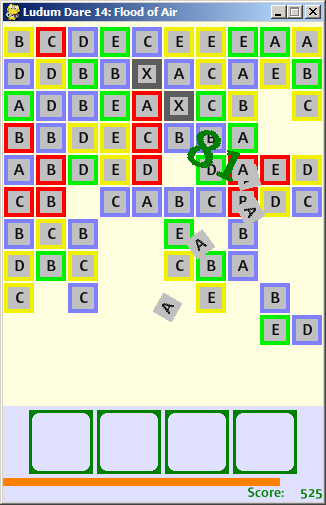
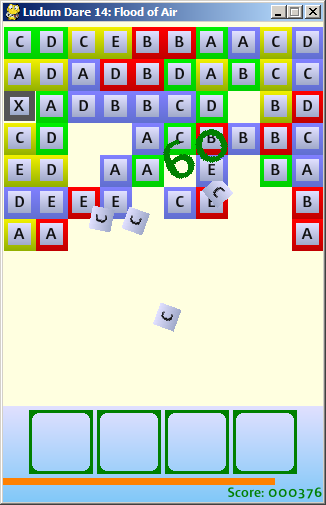
Non-flat tiles. Version and screenshot updated.

diff --git a/src/ld14.py b/src/ld14.py
@@ -22,6 +22,11 @@ RGB_TILE_COLOR = [(0xff, 0x00, 0x00),
                   (0x80, 0x80, 0xff),
                   (0xf0, 0xf0, 0x00),
                   ]
+RGB_TILE_END_COLOR = [(0xcf, 0x00, 0x00),
+                      (0x00, 0xcf, 0x00),
+                      (0x6f, 0x6f, 0xcf),
+                      (0xaf, 0xaf, 0x00),
+                      ]
 
 SHAPE_COUNT = len(TILE_SYMBOL)
 SPECIAL_SHAPE = SHAPE_COUNT - 1
@@ -39,15 +44,19 @@ TILE_ROWS = (SCREEN_SIZE_Y - 80) / TILE_SIZE
 DASHBOARD_START = TILE_ROWS * TILE_SIZE
 CLOCK_COLOR = (255, 128, 0)
 BACKGROUND_COLOR = (0xff, 0xff, 0xe0)
+BACKGROUND_END_COLOR = (0xe8, 0xe8, 0xd8)
 DASHBOARD_COLOR = (0xe0, 0xe0, 0xff)
+DASHBOARD_END_COLOR = (0xc8, 0xc8, 0xf8)
 SCORE_COLOR = (0, 128, 0)
 GAME_OVER_COLOR = (48, 48, 48)
 SPECIAL_TILE_COLOR = (128, 128, 128)
 
 TILE_COLOR = (16, 16, 16)
-TILE_BACKGROUND_COLOR = (0xc0, 0xc0, 0xc0)
+TILE_BACKGROUND_COLOR = DASHBOARD_COLOR
+TILE_BACKGROUND_END_COLOR = (0xa8, 0xa8, 0xc8)
 TILE_BACKGROUND_MARGIN = 5
 SLOT_BACKGROUND_COLOR = DASHBOARD_COLOR
+SLOT_BACKGROUND_END_COLOR = (0xa0, 0xa0, 0xc0)
 SLOT_BACKGROUND_MARGIN = 16
 BANNER_ALPHA = 192
 
@@ -110,7 +119,7 @@ class Tile(pygame.sprite.Sprite):
     if self.rect.left > SCREEN_SIZE_X / 2:
       self.dx = - self.dx
       self.rot_dx = - self.rot_dx
-    self.dy = -0.05
+    self.dy = - 0.05
 
   def update(self):
     if not self.falling:
@@ -173,12 +182,14 @@ class Game(object):
     pygame.mouse.set_visible(True)
   
     self.background = pygame.Surface(self.screen.get_size()).convert()
-    self.background.fill(BACKGROUND_COLOR,
-                         pygame.Rect(0, 0, SCREEN_SIZE_X, DASHBOARD_START))
-    self.background.fill(DASHBOARD_COLOR,
-                         pygame.Rect(0, DASHBOARD_START, SCREEN_SIZE_X,
-                                     SCREEN_SIZE_Y - DASHBOARD_START))
+    self.do_gradient(self.background, pygame.Rect(0, 0, SCREEN_SIZE_X, DASHBOARD_START),
+                     BACKGROUND_COLOR, BACKGROUND_COLOR)
+    self.do_gradient(self.background, pygame.Rect(0, DASHBOARD_START, SCREEN_SIZE_X,
+                                                  SCREEN_SIZE_Y - DASHBOARD_START),
+                                                  DASHBOARD_COLOR, DASHBOARD_END_COLOR)
 
+    self.prerender()
+    
     self.pulse_color_dx = 0
     self.pulse_color = 0.75
     self.special_color_dx = 0
@@ -241,6 +252,24 @@ class Game(object):
     self.screen.blit(self.background, (0, 0))
     pygame.display.flip()
 
+  def do_gradient(self, image, rect, bg_color, bg_gradient):
+    #image.fill(bg_color, rect)
+    #return
+    x1 = rect.left
+    x2 = rect.right
+    a, b = bg_color, bg_gradient
+    y1 = rect.top
+    y2 = rect.bottom
+    h = rect.height
+    rate = (float((b[0] - a[0]) / h), (float(b[1] - a[1]) / h),
+            (float(b[2] - a[2]) / h))
+    for line in range(y1, y2):
+      offset = line - y1
+      color = (min(max(a[0] + (rate[0] * offset), 0), 255),
+               min(max(a[1] + (rate[1] * offset), 0), 255),
+               min(max(a[2] + (rate[2] * offset), 0), 255))
+      pygame.draw.line(image, color, (x1, line), (x2, line))
+
   def generate_tile_images(self):
     self.tile_images = []
     font = get_font(36)
@@ -248,11 +277,12 @@ class Game(object):
       image = pygame.Surface((SLOT_SIZE, SLOT_SIZE))
       image.set_colorkey(TRANSPARENCY_KEY_COLOR)
       image.fill(TRANSPARENCY_KEY_COLOR)
-      image.fill(SLOT_BACKGROUND_COLOR,
-                 pygame.Rect(SLOT_BACKGROUND_MARGIN,
-                             SLOT_BACKGROUND_MARGIN,
-                             SLOT_SIZE - SLOT_BACKGROUND_MARGIN * 2,
-                             SLOT_SIZE - SLOT_BACKGROUND_MARGIN * 2))
+      self.do_gradient(image,
+                       pygame.Rect(SLOT_BACKGROUND_MARGIN,
+                                   SLOT_BACKGROUND_MARGIN,
+                                   SLOT_SIZE - SLOT_BACKGROUND_MARGIN * 2,
+                                   SLOT_SIZE - SLOT_BACKGROUND_MARGIN * 2),
+                                   SLOT_BACKGROUND_COLOR, SLOT_BACKGROUND_END_COLOR)
       text = font.render(TILE_SYMBOL[shape], 1, TILE_COLOR)
       textpos = text.get_rect(centerx=SLOT_SIZE / 2)
       textpos.top = 1 + (SLOT_SIZE - font.get_height()) / 2
@@ -269,9 +299,10 @@ class Game(object):
         margin = TILE_BACKGROUND_MARGIN + 2
       else:
         margin = TILE_BACKGROUND_MARGIN
-      image.fill(TILE_BACKGROUND_COLOR,
-                 pygame.Rect(margin, margin,
-                             TILE_SIZE - margin * 2, TILE_SIZE - margin * 2))
+      self.do_gradient(image,
+                       pygame.Rect(margin, margin,
+                                   TILE_SIZE - margin * 2, TILE_SIZE - margin * 2),
+                                   TILE_BACKGROUND_COLOR, TILE_BACKGROUND_END_COLOR)
       text = font.render(TILE_SYMBOL[shape], 1, TILE_COLOR)
       textpos = text.get_rect(centerx=TILE_SIZE / 2)
       textpos.top = 1 + (TILE_SIZE - font.get_height()) / 2
@@ -377,24 +408,40 @@ class Game(object):
         color = color_row[col]
         shape = shape_row[col]
         if color >= 0:
+          use_prerendered = False
           if self.grid_tiles[row][col].selected:
             rgb_color = RGB_TILE_COLOR[color]
             rgb_color = (rgb_color[0] * self.pulse_color,
                          rgb_color[1] * self.pulse_color,
                          rgb_color[2] * self.pulse_color) 
+            rgb_end_color = RGB_TILE_END_COLOR[color]
+            rgb_end_color = (rgb_end_color[0] * self.pulse_color,
+                             rgb_end_color[1] * self.pulse_color,
+                             rgb_end_color[2] * self.pulse_color) 
           else:
-            rgb_color = RGB_TILE_COLOR[color]
+            use_prerendered = True
           if shape == SPECIAL_SHAPE:
+            use_prerendered = False
             rgb_color = SPECIAL_TILE_COLOR
             rgb_color = (rgb_color[0] * self.special_color,
                          rgb_color[1] * self.special_color,
-                         rgb_color[2] * self.special_color) 
+                         rgb_color[2] * self.special_color)
+            rgb_end_color = rgb_color 
           if self.game_over:
+            use_prerendered = False
             rgb_color = GAME_OVER_COLOR
+            rgb_end_color = GAME_OVER_COLOR
           rect = pygame.Rect((col * TILE_SIZE + 1, row * TILE_SIZE + 1),
                              (TILE_SIZE - 2, TILE_SIZE - 2))
           rect.top += self.vertical_tile_offset
-          self.screen.fill(rgb_color, rect)
+          if use_prerendered:
+            self.screen.blit(self.tile_prerenders[color], rect)
+          else:
+            # This uses a little too much CPU  
+            if True:
+              self.do_gradient(self.screen, rect, rgb_color, rgb_end_color)
+            else:
+              self.screen.fill(rgb_color, rect)
 
   def get_rowcol_from_pos(self, pos):
     x = pos[0]
@@ -498,9 +545,9 @@ class Game(object):
 
   def safe_get_grid_shape(self, row, col):
     if len(self.grid_shapes) <= row:
-      return -1
+      return - 1
     if len(self.grid_shapes[row]) <= col:
-      return -1
+      return - 1
     return self.grid_shapes[row][col]
     
   def remove_tile(self, row, col):
@@ -512,7 +559,6 @@ class Game(object):
     self.scan_for_special_tiles(row, col)
 
   def check_special_tile(self, row, col):
-    print 'checking special tile %d %d' % (row, col)
     if self.safe_get_grid_shape(row, col) != SPECIAL_SHAPE:
       return
     neighbors = []
@@ -525,7 +571,7 @@ class Game(object):
     if col < TILE_COLS - 1:
       neighbors.append(self.safe_get_grid_shape(row, col + 1))
     for n in neighbors:
-      if n != -1 and n != SPECIAL_SHAPE:
+      if n != - 1 and n != SPECIAL_SHAPE:
         return
     self.remove_tile(row, col)
     self.special_tile_pickup.play()
@@ -596,6 +642,22 @@ class Game(object):
     self.slot_selection = [(-1, - 1), (-1, - 1), (-1, - 1), (-1, - 1), ]
     self.adjust_slot_pointer()
 
+  def prerender(self):
+    self.slot_prerenders = []
+    self.tile_prerenders = []
+    for color in range(0, COLOR_COUNT):
+      image = pygame.Surface((SLOT_SIZE, SLOT_SIZE))
+      self.do_gradient(image,
+                       pygame.Rect((0, 0), (SLOT_SIZE, SLOT_SIZE)),
+                       RGB_TILE_COLOR[color], RGB_TILE_END_COLOR[color])
+      self.slot_prerenders.append(image)
+
+      image = pygame.Surface((TILE_SIZE, TILE_SIZE))
+      self.do_gradient(image,
+                       pygame.Rect((0, 0), (TILE_SIZE, TILE_SIZE)),
+                       RGB_TILE_COLOR[color], RGB_TILE_END_COLOR[color])
+      self.tile_prerenders.append(image)
+
   def draw_slots(self):
     for i in range(0, SLOT_COUNT):
       x = i * (SLOT_SIZE + SLOT_MARGIN) + SLOT_LEFT_MARGIN
@@ -604,8 +666,9 @@ class Game(object):
       if row >= 0 and col >= 0:
         shape = self.grid_shapes[row][col]
         color = self.grid_colors[row][col]
-        self.screen.fill(RGB_TILE_COLOR[color],
-                         pygame.Rect((x, y), (SLOT_SIZE, SLOT_SIZE)))
+        self.screen.blit(self.slot_prerenders[color],
+                         pygame.Rect((x, y),
+                                     (SLOT_SIZE, SLOT_SIZE)))
         self.screen.blit(self.tile_images[shape], (x, y))
       self.screen.blit(self.slot_image, (x, y))
 

diff --git a/src/setup.py b/src/setup.py
@@ -11,7 +11,7 @@ sys.argv.append('py2exe')
 
 DIST_DIR='dist/'
 
-VERSION = '42.17' # Number of hours/minutes into compo
+VERSION = '46.55' # Number of hours/minutes into compo
 AUTHOR_NAME = 'Mike Tsao (Sowbug)'
 AUTHOR_EMAIL = 'mike.tsao@gmail.com'
 AUTHOR_URL = 'http://www.sowbug.org/'
